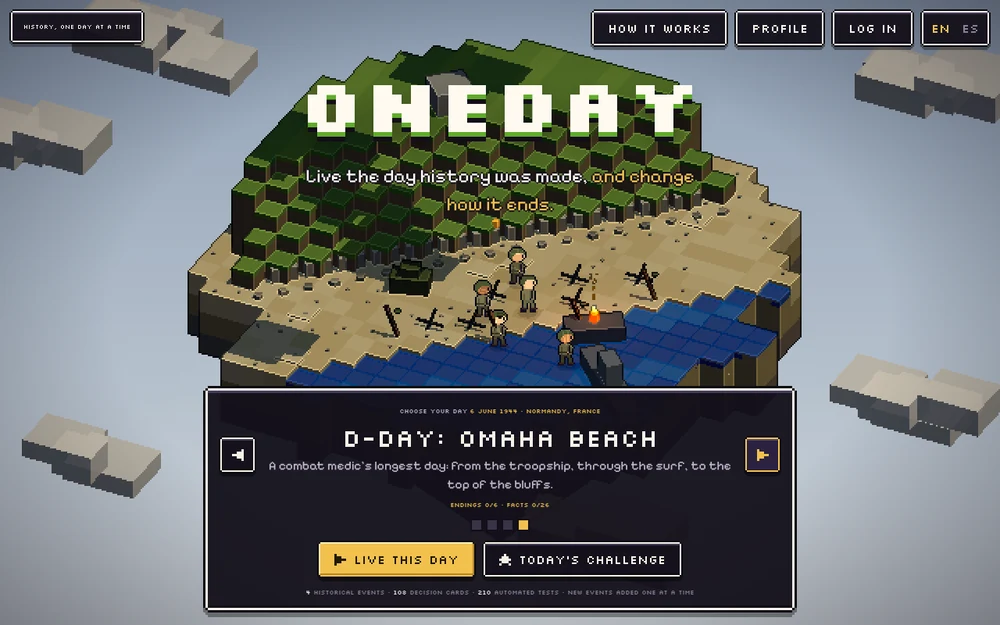
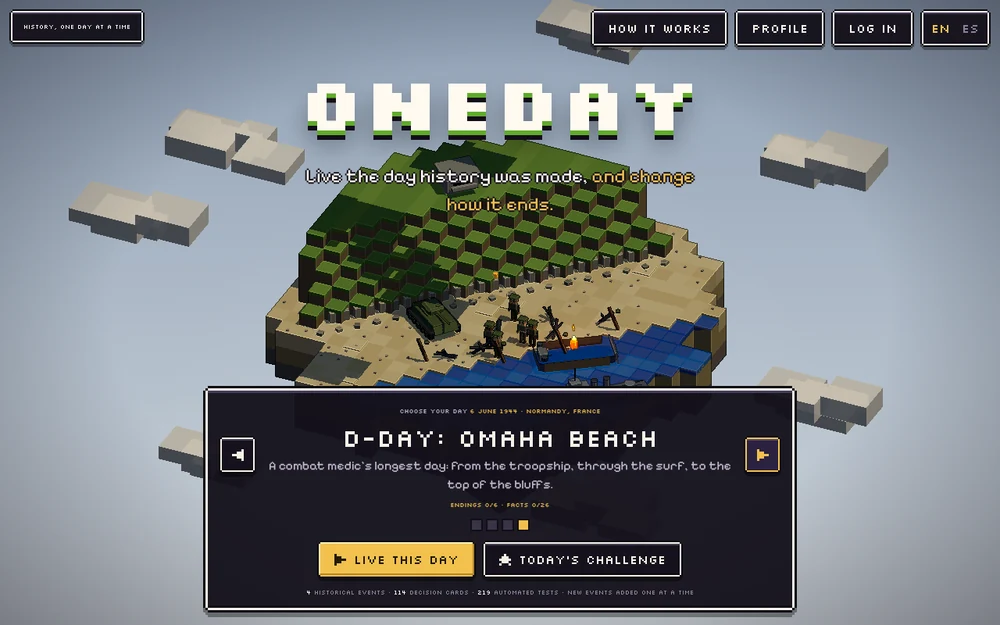
OneDay: Blender-made 3D character and scenes (#5)
New description, stat line, stack, skills, log entry and screenshots
for OneDay's 3D character and sets modelled in Blender.

Claude-Session: https://claude.ai/code/session_01PWrcoiu3kYWppcyqK2ErND

diff --git a/src/data.ts b/src/data.ts
@@ -44,15 +44,15 @@ export const PROJECTS: Project[] = [
     id: 'oneday',
     name: 'OneDay',
     tagline:
-      'A historical decision game on a 3D pixel-art stage: live the Moon landing, the Great Pyramid, Tenochtitlan in 1519 or D-Day, learn as you play, and find the real ending and the ones history missed.',
-    stat: '4 historical events · 27 endings · 210 tests',
-    stack: ['Vanilla JS', 'three.js', 'WebGL shaders', 'WebAudio', 'Firebase'],
+      'A historical decision game: live the Moon landing, the Great Pyramid, Tenochtitlan in 1519 or D-Day as a 3D character modelled and animated in Blender, who acts out every choice. Learn as you play, and find the real ending and the ones history missed.',
+    stat: '4 historical events · Blender 3D · 219 tests',
+    stack: ['Vanilla JS', 'three.js', 'Blender (bpy)', 'WebGL shaders', 'Firebase'],
     live: 'https://lucasmarjua-ui.github.io/oneday/',
     code: 'https://github.com/lucasmarjua-ui/oneday',
     shots: [
       { src: onedayStart, alt: 'OneDay title screen: Omaha Beach on D-Day as a floating pixel-art diorama' },
-      { src: onedayDayLoop, alt: 'OneDay in Tenochtitlan, 1519: Malintzin on the causeway deciding how to translate Cortés' },
-      { src: onedaySummary, alt: 'OneDay ending screen for Apollo 11: an alternative ending next to what really happened' },
+      { src: onedayDayLoop, alt: 'OneDay on the Moon, 1969: Aldrin and Armstrong by the flag, the lunar module and the experiments, modelled in Blender' },
+      { src: onedaySummary, alt: 'OneDay ending screen for Tenochtitlan, 1519: the historical ending and what really happened' },
     ],
   },
   {
@@ -128,8 +128,8 @@ export const SKILLS = [
   },
   {
     name: 'Games',
-    description: 'A 3D pixel-art stage in three.js with custom shaders, Canvas API games and data-driven engines, plus Unity projects in C#.',
-    stack: ['three.js', 'Canvas API', 'WebAudio', 'Unity', 'C#'],
+    description: 'A 3D pixel-art stage in three.js with custom shaders, characters and sets modelled and animated in Blender, Canvas API games and data-driven engines, plus Unity projects in C#.',
+    stack: ['three.js', 'Blender', 'Canvas API', 'WebAudio', 'Unity', 'C#'],
   },
   {
     name: 'Testing & delivery',
@@ -145,6 +145,12 @@ export const SKILLS = [
 
 // Dates come from each repository's first commit.
 export const LOG = [
+  {
+    date: 'Oct 2026',
+    title: 'Modelled OneDay in Blender',
+    body: 'A 3D character with 30 animations and the scene sets, built by Python scripts in headless Blender. Every choice is acted out, characters path around obstacles, and every dialogue carries a historical note.',
+    href: 'https://lucasmarjua-ui.github.io/oneday/',
+  },
   {
     date: 'Oct 2026',
     title: 'Turned OneDay into history',
